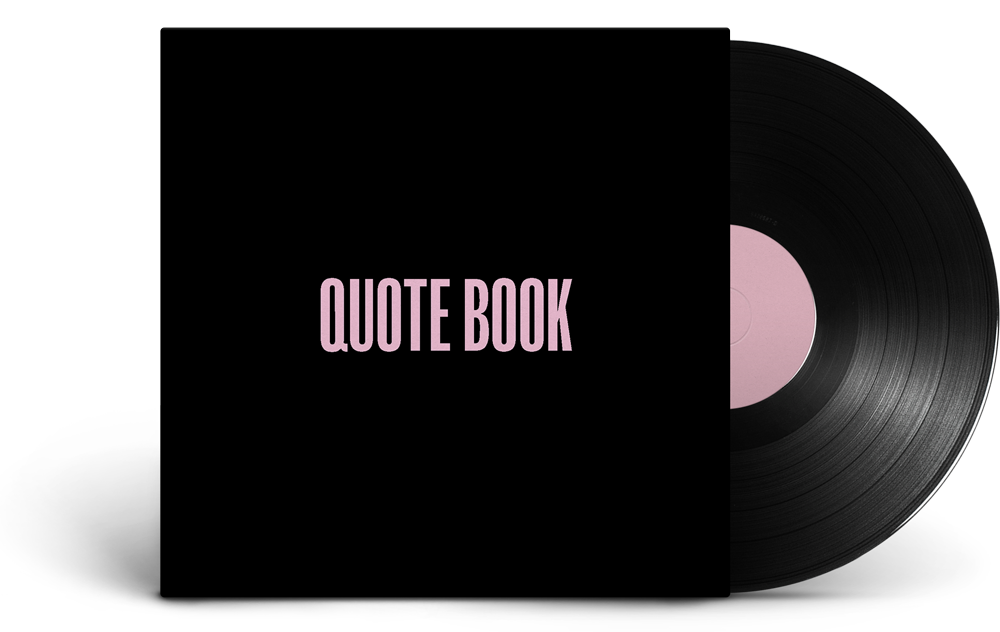
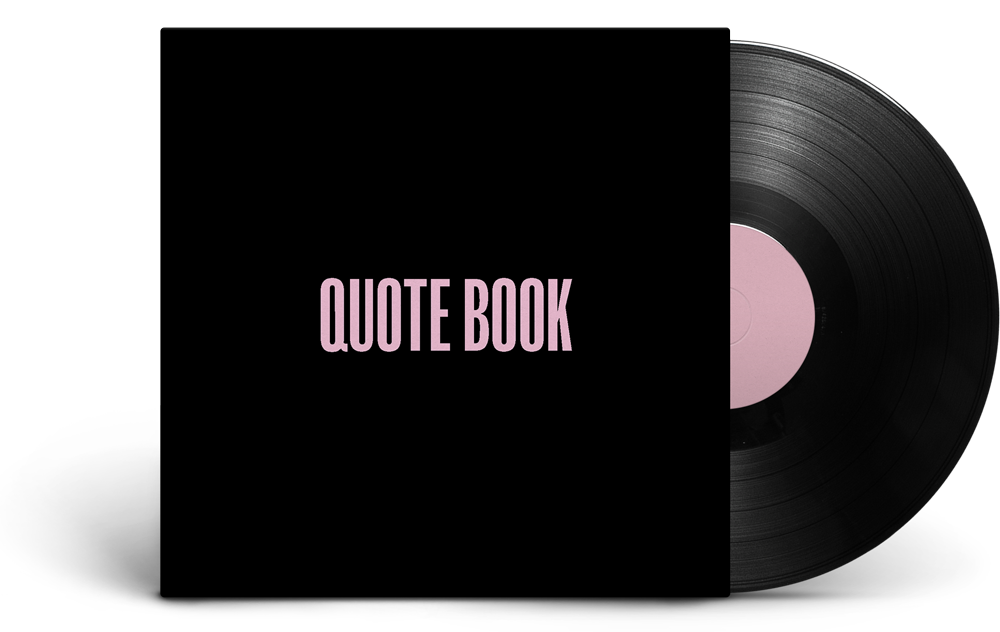
Changed main Quote Book sizes again to better fit screen.

diff --git a/css/projects.css b/css/projects.css
@@ -90,16 +90,16 @@ footer {
   }
 
   .header {
-    max-height: 700px;
+    max-height: 650px;
   }
 
   .quotebook1 {
-    width: 100%;
+    width: 90%;
     display: block;
     position: relative;
     margin: auto;
-    left: 65px;
-    top: -15px;
+    left: 45px;
+    top: -13px;
   }
 
   .qb-logo {
@@ -109,7 +109,7 @@ footer {
   }
 
   .quotebook2 {
-    width: 100%;
+    width: 90%;
     top: -150px;
     right: 130px;
   }
@@ -154,12 +154,12 @@ footer {
 
 
   .quotebook1 {
-    width: 80%;
+    width: 65%;
     display: block;
     position: relative;
     margin: auto;
     left: 140px;
-    top: -18px;
+    top: -14px;
   }
 
   .qb-logo {
@@ -169,7 +169,7 @@ footer {
   }
 
   .quotebook2 {
-    width: 80%;
+    width: 65%;
     top: -170px;
     right: 140px;
   }
